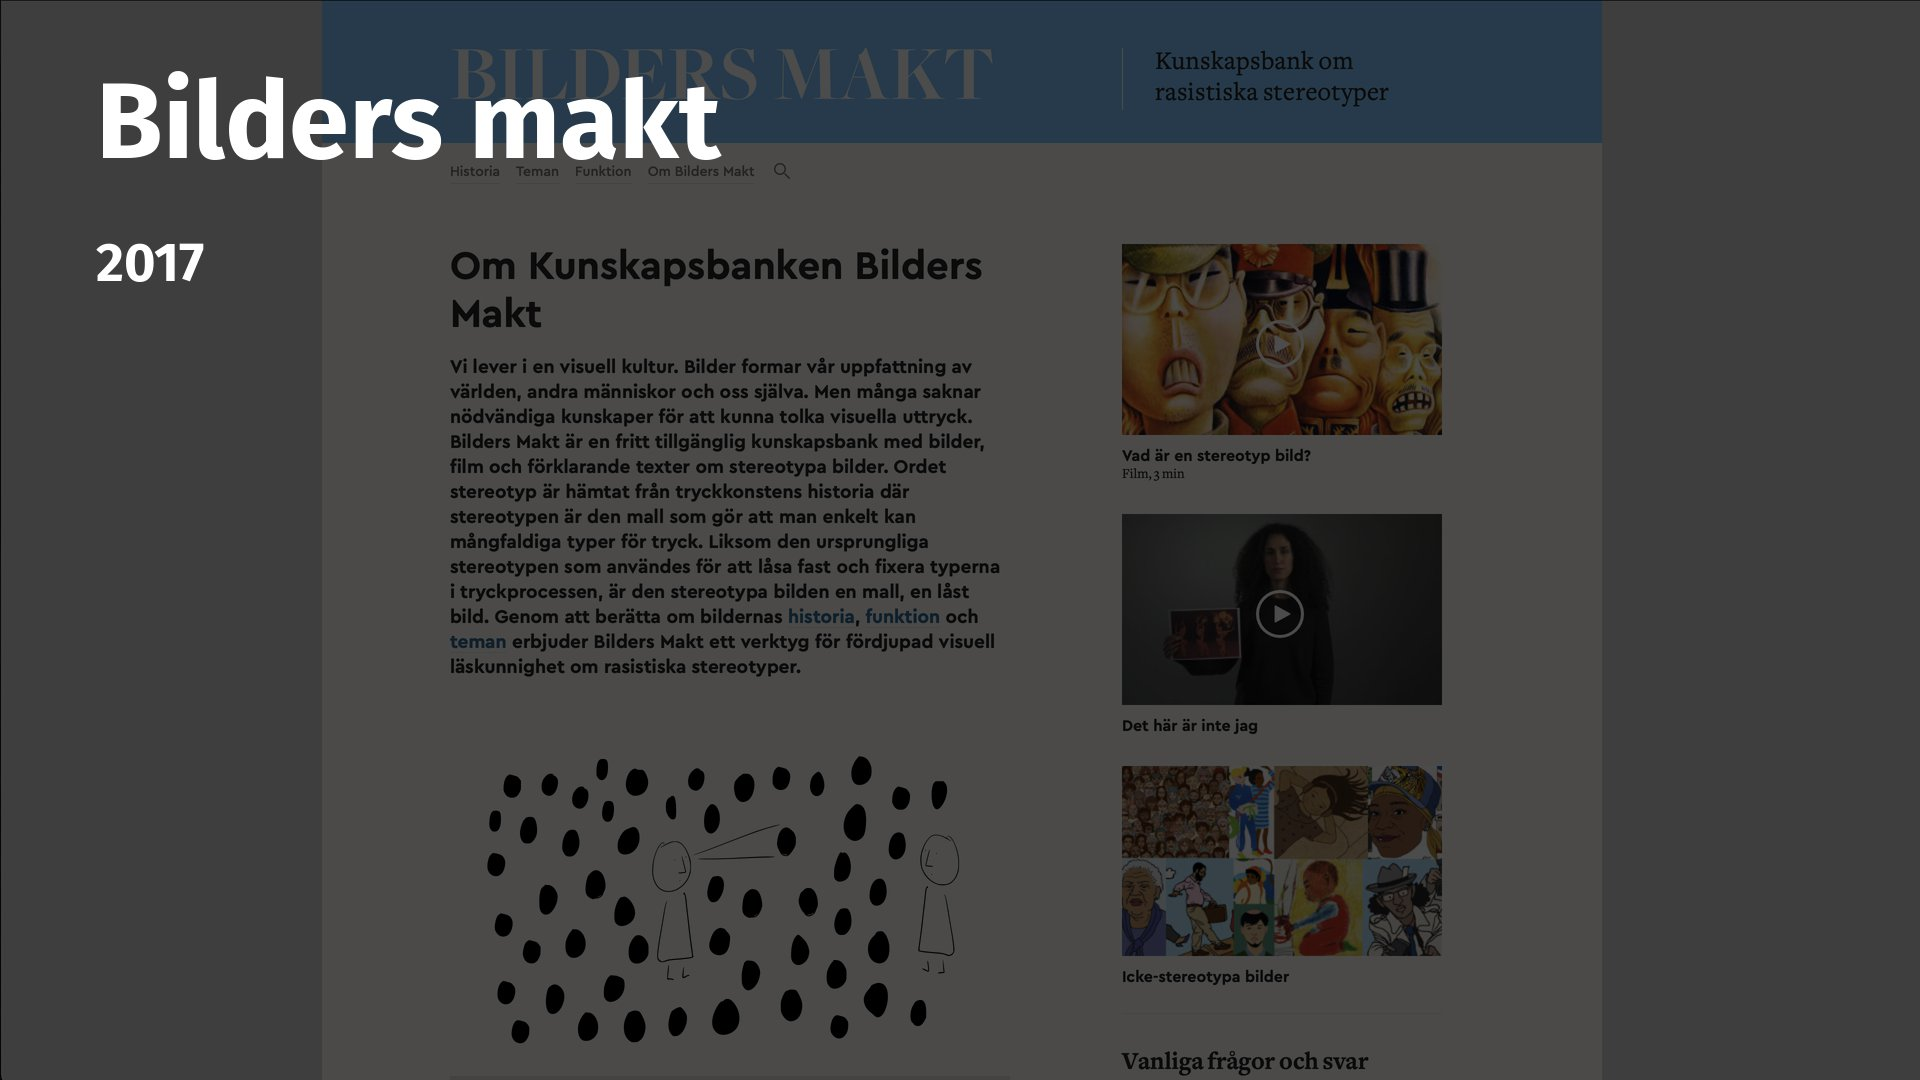
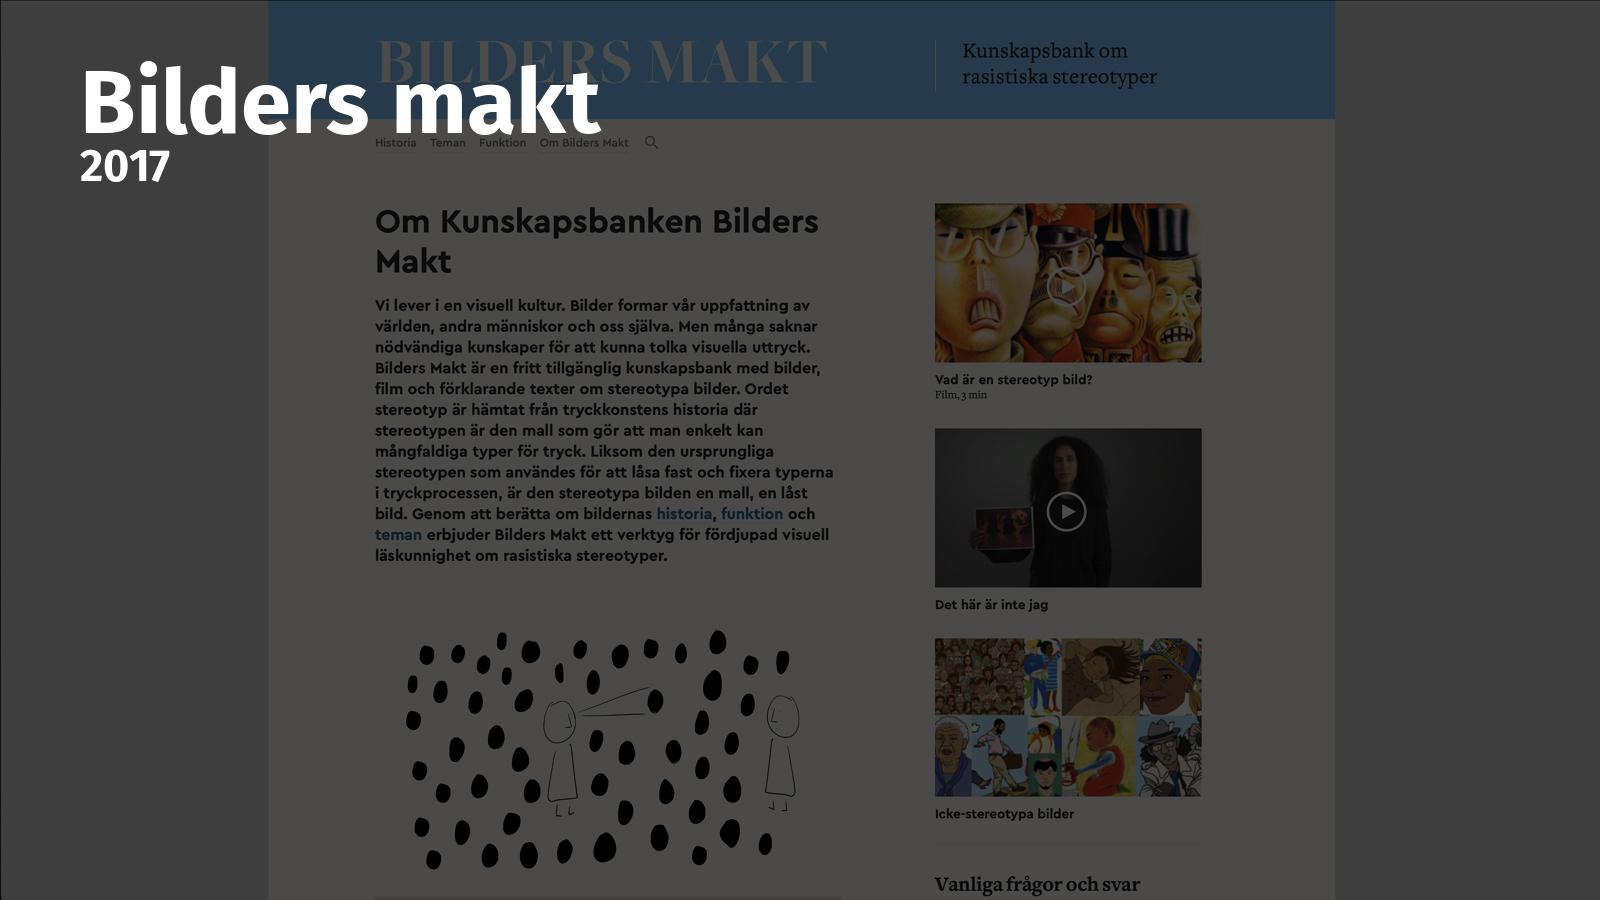
Lots of stuff

Changed region(s): [[0.0312, 0.0622, 0.375, 0.28]]

diff --git a/blog/content/extra/custom.css b/blog/content/extra/custom.css
@@ -7,3 +7,37 @@
 video {
   width: 100%;
 }
+
+div#codersranksummary {
+  display: flex;
+  flex-direction: row;
+
+  width: 400px;
+  height: 183px;
+}
+
+div#codersranksummary img {
+  margin: 0;
+  margin-bottom: 1rem;
+}
+
+div#codersrankgraph {
+  width: 90%;
+  height: auto;
+}
+
+div#codersrankgraph img {
+  margin: 0;
+}
+
+/* Medium devices (landscape tablets, 768px and up) */
+@media only screen and (max-width: 768px) {
+  div#codersranksummary {
+    display: block;
+    width: 90%;
+  }
+
+  div#codersrankgraph {
+    width: 90%;
+  }
+}

diff --git a/blog/tasks.py b/blog/tasks.py
@@ -138,8 +138,10 @@ def update_theme(ctx, watch=False):
 
 def make_presentation_poster(path, fontpath):
 
-    IMAGE_WIDTH = 1920
-    IMAGE_HEIGHT = 1080
+    # IMAGE_WIDTH = 1920
+    IMAGE_WIDTH = 1600
+    # IMAGE_HEIGHT = 1080
+    IMAGE_HEIGHT = 900
 
     FONT_SIZE_TITLE = int(IMAGE_HEIGHT * 0.1)
     FONT_SIZE_BODY = int(IMAGE_HEIGHT * 0.05)
@@ -192,7 +194,7 @@ def make_presentation_poster(path, fontpath):
     # draw body
     font = ImageFont.truetype(fontpath.as_posix(), FONT_SIZE_BODY)
     lines = textwrap.wrap(data["body"], 30)
-    for index, line in enumerate(lines, start=1):
+    for index, line in enumerate(lines, start=0):
         BODY_PADDING_TOP = PADDING_TOP + FONT_SIZE_TITLE + (LINE_HEIGHT_BODY * index)
         draw.text(
             (PADDING_SIDE, BODY_PADDING_TOP),
@@ -206,7 +208,7 @@ def make_presentation_poster(path, fontpath):
         open(output, "wb"),
         "JPEG",
         optimize=True,
-        quality=85,
+        quality=75,
         progressive=True,
     )
 

diff --git a/blog/pelicanconf.py b/blog/pelicanconf.py
@@ -54,6 +54,7 @@ DEFAULT_PAGINATION = 10
 HOME_COLOR = "black"
 
 # HOME_COVER = "https://casper.ghost.org/v1.0.0/images/welcome.jpg"
+HOME_COVER = "/images/darkivy.jpg"
 
 STATIC_PATHS = ["extra", "images", "videoposters"]
 
